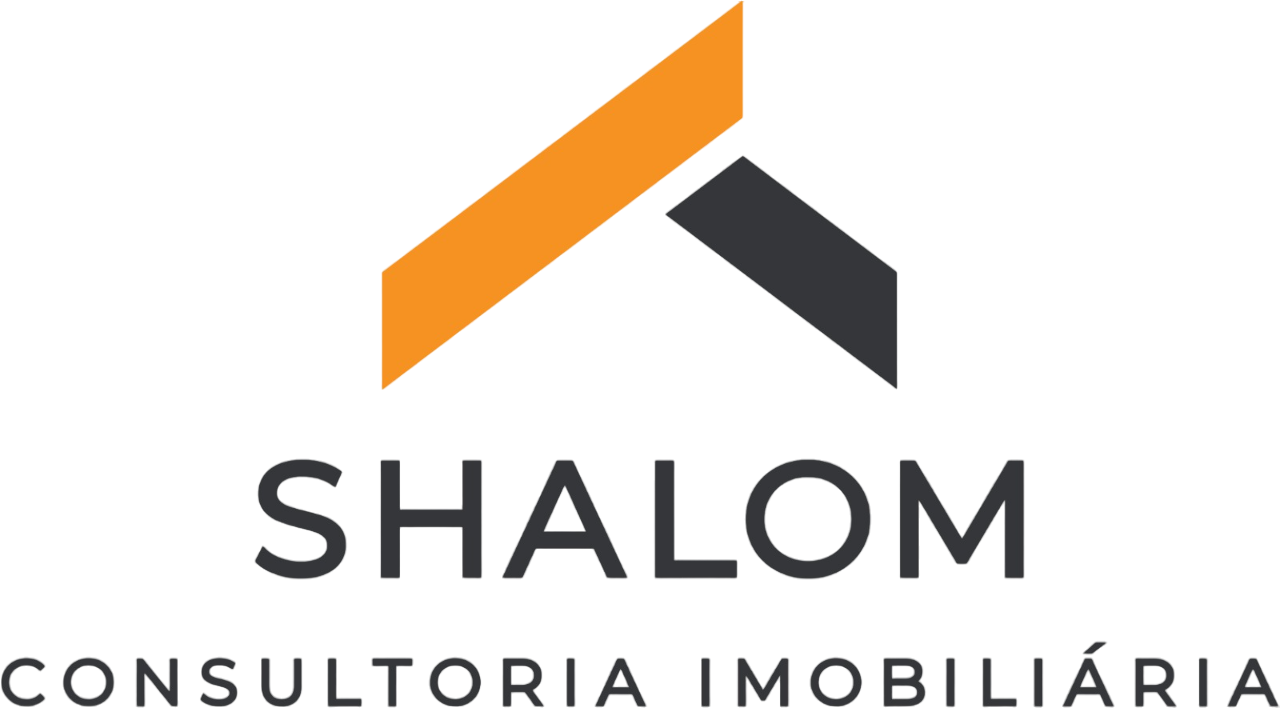
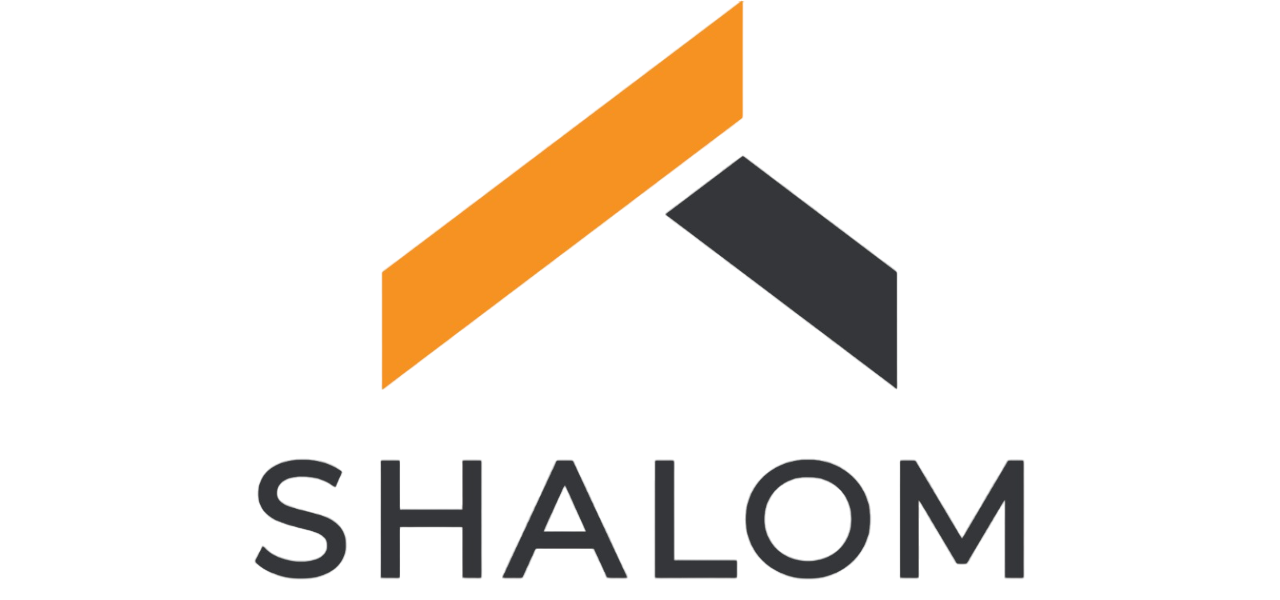
Add per-photo 45deg rotate button; drop tagline from watermark
- frontend: each thumbnail gets a rotate (45 deg) button next to the
  move arrows. Rotation always re-renders from the original file at
  the new cumulative angle instead of re-rotating the previous
  (already-padded) result -- rotating from an already-rotated image
  compounds the white corner padding needed to fit the bounding box,
  which made the photo look like it was shrinking with each click.
- watermark.png: cropped to icon + "SHALOM" only, dropping the
  "CONSULTORIA IMOBILIARIA" tagline row, per request.

Changed region(s): [[0.0, 0.18, 1.0, 1.0], [0.2812, 0.12, 0.5, 0.45], [0.5, 0.03, 0.5625, 0.12]]

diff --git a/frontend/app.js b/frontend/app.js
@@ -165,7 +165,7 @@
         rejected += 1;
         continue;
       }
-      selectedFiles.push({ file, url: URL.createObjectURL(file) });
+      selectedFiles.push({ file, url: URL.createObjectURL(file), originalFile: file, rotationDeg: 0 });
     }
     photosInput.value = ""; // permite selecionar o mesmo arquivo de novo depois
     if (rejected > 0) {
@@ -195,6 +195,55 @@
     const [item] = selectedFiles.splice(fromIndex, 1);
     selectedFiles.splice(toIndex, 0, item);
     renderPhotoPreview();
+  }
+
+  function rotateFileAt(index) {
+    const item = selectedFiles[index];
+    if (!item) return;
+
+    // Sempre gira a partir do arquivo ORIGINAL no ângulo acumulado -- girar
+    // repetidamente a partir do resultado já girado faz a margem branca
+    // (necessária pra caber o retângulo girado) se acumular a cada clique,
+    // fazendo a foto "encolher" visualmente.
+    const newRotation = (item.rotationDeg + 45) % 360;
+    const sourceUrl = URL.createObjectURL(item.originalFile);
+    const img = new Image();
+    img.onload = () => {
+      URL.revokeObjectURL(sourceUrl);
+      const rad = (newRotation * Math.PI) / 180;
+      const w = img.naturalWidth;
+      const h = img.naturalHeight;
+      const newW = Math.round(Math.abs(w * Math.cos(rad)) + Math.abs(h * Math.sin(rad)));
+      const newH = Math.round(Math.abs(w * Math.sin(rad)) + Math.abs(h * Math.cos(rad)));
+
+      const canvas = document.createElement("canvas");
+      canvas.width = newW;
+      canvas.height = newH;
+      const ctx = canvas.getContext("2d");
+      ctx.fillStyle = "#ffffff";
+      ctx.fillRect(0, 0, newW, newH);
+      ctx.translate(newW / 2, newH / 2);
+      ctx.rotate(rad);
+      ctx.drawImage(img, -w / 2, -h / 2);
+
+      canvas.toBlob(
+        (blob) => {
+          if (!blob) return;
+          const rotatedFile = new File([blob], item.originalFile.name, { type: "image/jpeg" });
+          URL.revokeObjectURL(item.url);
+          selectedFiles[index] = {
+            file: rotatedFile,
+            url: URL.createObjectURL(rotatedFile),
+            originalFile: item.originalFile,
+            rotationDeg: newRotation,
+          };
+          renderPhotoPreview();
+        },
+        "image/jpeg",
+        0.92
+      );
+    };
+    img.src = sourceUrl;
   }
 
   function clearSelectedFiles() {
@@ -250,7 +299,16 @@
       rightBtn.setAttribute("aria-label", "Mover para frente");
       rightBtn.addEventListener("click", () => moveFile(index, 1));
 
+      const rotateBtn = document.createElement("button");
+      rotateBtn.type = "button";
+      rotateBtn.className = "photo-move-btn";
+      rotateBtn.textContent = "⟳";
+      rotateBtn.title = "Girar 45°";
+      rotateBtn.setAttribute("aria-label", `Girar foto ${index + 1} em 45 graus`);
+      rotateBtn.addEventListener("click", () => rotateFileAt(index));
+
       moveRow.appendChild(leftBtn);
+      moveRow.appendChild(rotateBtn);
       moveRow.appendChild(rightBtn);
       card.appendChild(moveRow);
 

diff --git a/frontend/styles.css b/frontend/styles.css
@@ -193,7 +193,7 @@ input:focus, select:focus { outline: 2px solid var(--primary); border-color: tra
 .photo-move-row {
   display: flex;
   justify-content: center;
-  gap: 4px;
+  gap: 3px;
   margin-top: 4px;
 }
 
@@ -204,7 +204,7 @@ input:focus, select:focus { outline: 2px solid var(--primary); border-color: tra
   border-radius: 4px;
   font-size: 0.7rem;
   line-height: 1;
-  padding: 3px 6px;
+  padding: 3px 5px;
   cursor: pointer;
 }
 
